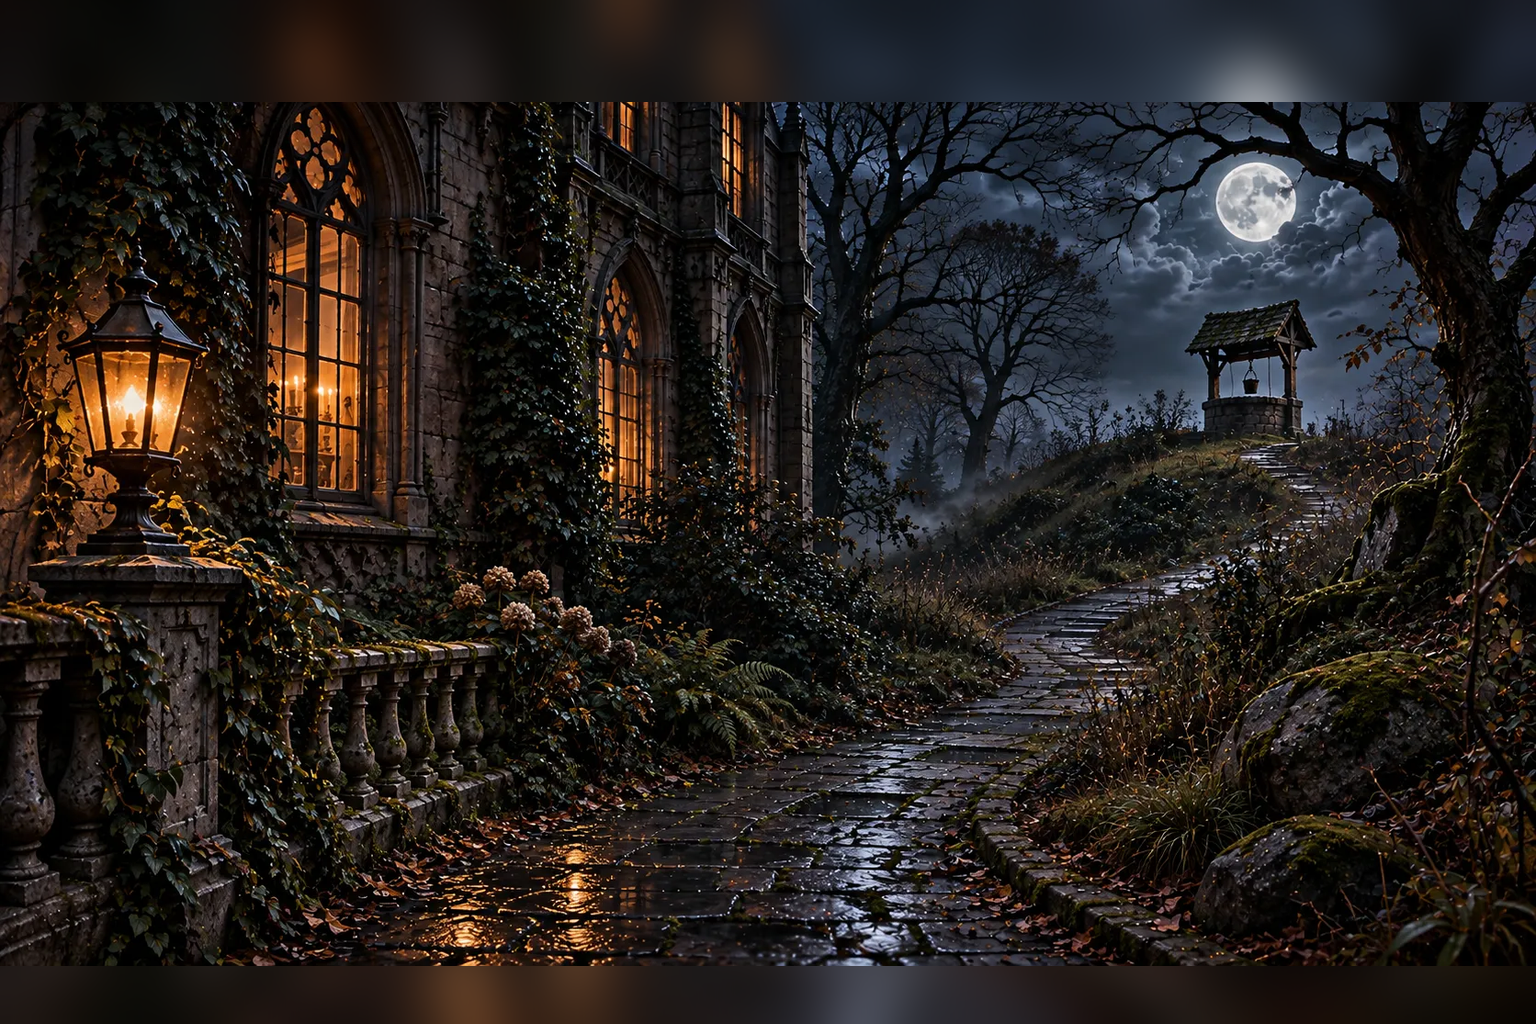
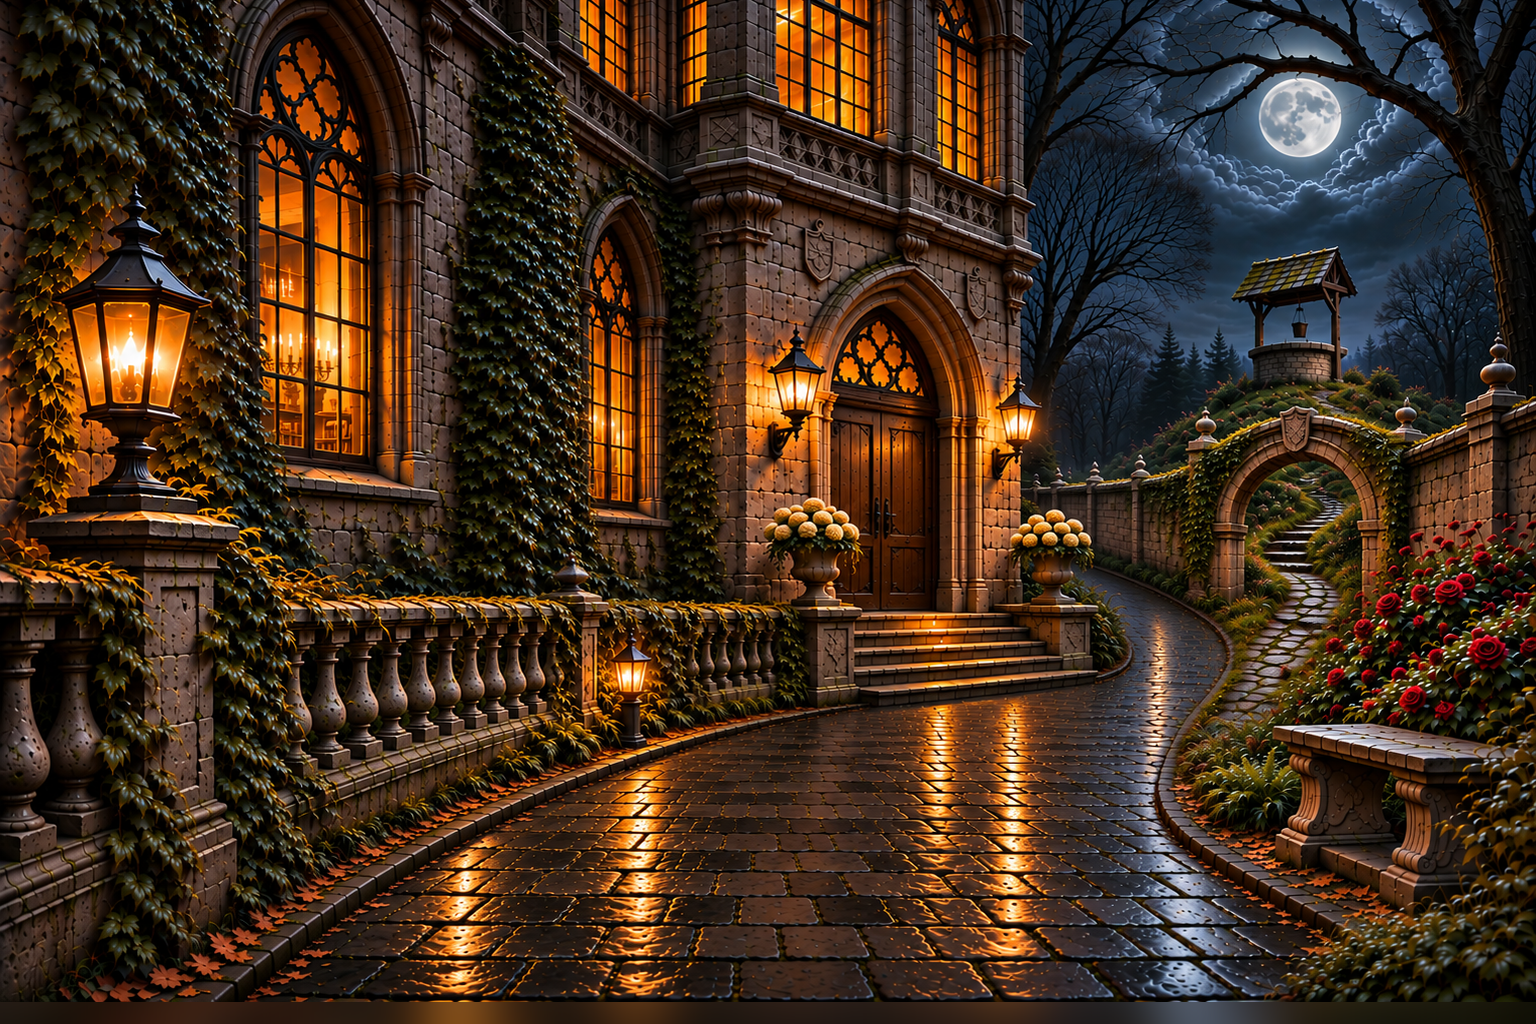
New right-side view of the mansion; glasshouse close-up
- MansionRight uses the new painting: servants' entrance (locked, Old
  Key too small), garden arch and well (-> Well), rose bush (ACT pricks
  your finger, -2 Health), stone bench, lantern, windows.
- New GlasshouseCloseup from the Garden's glasshouse: dome, windows,
  lanterns, chandelier, and doors that rattle as if pushed from inside
  (Old Key doesn't fit).
- Both backgrounds built by Tools/build_wide_backgrounds.py; the first
  right-side painting stays in Sources but is no longer used.

Claude-Session: https://claude.ai/code/session_01HPW4qFXH6Xbcc4jDiJpXNp

diff --git a/Data/Scenes.cs b/Data/Scenes.cs
@@ -103,6 +103,7 @@ namespace The_Mansion.Data
 
             .Hotspot("Glasshouse", 470, 250, 530, 270)
                 .Describe("A vast glasshouse of iron and glass. Candlelight flickers inside, though nobody seems to be tending it.")
+                .GoesTo("GlasshouseCloseup")
 
             .Hotspot("Mansion", 1120, 192, 416, 300)
                 .Describe("Ivy smothers the mansion's left wing. Warm light glows in the tall windows.")
@@ -141,6 +142,38 @@ namespace The_Mansion.Data
             .ReturnTo("Garden", "You step back from the statue.");
 
 
+        // The glasshouse on the left of the mansion (from the Garden).
+        public static Scene GlasshouseCloseup { get; } =
+            NewScene("GlasshouseCloseup",
+                     "Assets/Backgrounds/Mansion/glasshouse_closeup.png",
+                     "The glasshouse rises before you, all iron lace and misted glass. Inside, hundreds of candles burn among tall palms.")
+
+            .Hotspot("Glass Dome", 200, 192, 1280, 190)
+                .Describe("Rain beads on the great glass dome. Ivy has crept almost to the top.")
+
+            .Hotspot("Windows", 50, 400, 350, 300)
+                .Describe("Through the misted panes you can make out palms, ferns - and candles, far too many candles.")
+
+            .Hotspot("Windows", 1200, 400, 320, 300)
+                .Describe("Through the misted panes you can make out palms, ferns - and candles, far too many candles.")
+
+            .Hotspot("Lantern", 605, 530, 70, 160)
+                .Describe("An iron lantern on a stone pillar, lighting the steps.")
+
+            .Hotspot("Lantern", 955, 530, 70, 160)
+                .Describe("An iron lantern on a stone pillar, lighting the steps.")
+
+            .Hotspot("Chandelier", 735, 385, 160, 115)
+                .Describe("A chandelier blazes just inside, above the doors. Someone lit every candle.")
+
+            .Hotspot("Glasshouse Doors", 720, 500, 180, 290)
+                .Describe("Tall glass doors with brass handles. The air seeping out is warm and smells of earth and wax.")
+                .OnAct("You push the doors. They don't open - yet they rattle, as if something inside pushed back.")
+                .OnItem("Old Key", "The little brass key doesn't fit. The lock here is large and ornate.")
+
+            .ReturnTo("Garden", "You walk back to the garden.");
+
+
         // =========================================================
         // RIGHT OF THE MANSION: side path -> old well -> graveyard
         // Backgrounds made by Tools/build_wide_backgrounds.py.
@@ -149,21 +182,35 @@ namespace The_Mansion.Data
         public static Scene MansionRight { get; } =
             NewScene("MansionRight",
                      "Assets/Backgrounds/Mansion/mansion_right.png",
-                     "A wet stone path runs along the mansion's right wing, then climbs a misty hill towards an old well.")
+                     "A wet stone path curves along the mansion's right wing, past a servants' entrance, to an archway in the garden wall. Beyond it, steps climb to an old well.")
 
-            .Hotspot("Lantern", 60, 290, 140, 160)
+            .Hotspot("Lantern", 50, 290, 150, 190)
                 .Describe("An iron lantern on a stone post. Its flame burns steadily, despite the rain.")
 
-            .Hotspot("Windows", 240, 192, 450, 320)
+            .Hotspot("Windows", 240, 192, 400, 310)
                 .Describe("Candles burn behind the tall windows, but nothing moves inside.")
 
-            .Hotspot("Hill Path", 960, 450, 320, 340)
-                .Describe("The path winds up the hill to an old well.")
+            .Hotspot("Servants' Entrance", 790, 300, 180, 370)
+                .Describe("A smaller door at the top of a few worn steps - the servants' entrance. Lanterns burn on either side.")
+                .OnAct("You try the handle. Locked - and bolted, by the sound of it.")
+                .OnItem("Old Key", "The little brass key is far too small for this lock.")
+
+            .Hotspot("Garden Arch", 1140, 400, 160, 380)
+                .Describe("An ivy-covered archway in the garden wall. Steps beyond it climb towards the well.")
                 .GoesTo("Well")
 
-            .Hotspot("Old Well", 1170, 290, 140, 160)
-                .Describe("A small roofed well stands alone at the top of the hill.")
+            .Hotspot("Old Well", 1160, 250, 130, 120)
+                .Describe("A small roofed well stands at the top of the hill.")
                 .GoesTo("Well")
+
+            .Hotspot("Rose Bush", 1300, 500, 236, 190)
+                .Describe("A great tangle of blood-red roses, impossibly in bloom this late in the year.")
+                .OnAct("You reach for a rose and prick your finger on a thorn. Ow. (-2 Health)",
+                       p => p.Health -= 2)
+
+            .Hotspot("Stone Bench", 1250, 690, 220, 142)
+                .Describe("A mossy stone bench beside the roses.")
+                .OnAct("You sit for a moment. The stone is cold and damp. Somewhere a door creaks. You get up again.")
 
             .ReturnTo("Courtyard", "You head back to the courtyard.");
 

diff --git a/Tools/build_wide_backgrounds.py b/Tools/build_wide_backgrounds.py
@@ -27,7 +27,10 @@ WIDE = [
     ("courtyard_source.png",               "courtyard.png",              70),
     ("garden_source.png",                  "garden.png",                110),
     ("statue_closeup_source.png",          "statue_closeup.png",         10),
-    ("mansion_right_source.png",           "mansion_right.png",          90),
+    # (the first, 16:9 painting of the right side is kept in Sources but no
+    #  longer used: mansion_right_source.png)
+    ("mansion_right_v2_source.png",        "mansion_right.png",         215),
+    ("glasshouse_closeup_source.png",      "glasshouse_closeup.png",    230),
     ("well_source.png",                    "well.png",                   60),
     ("graveyard_entrance_source.png",      "graveyard_entrance.png",    110),
     ("well_closeup_source.png",            "well_closeup.png",          170),
